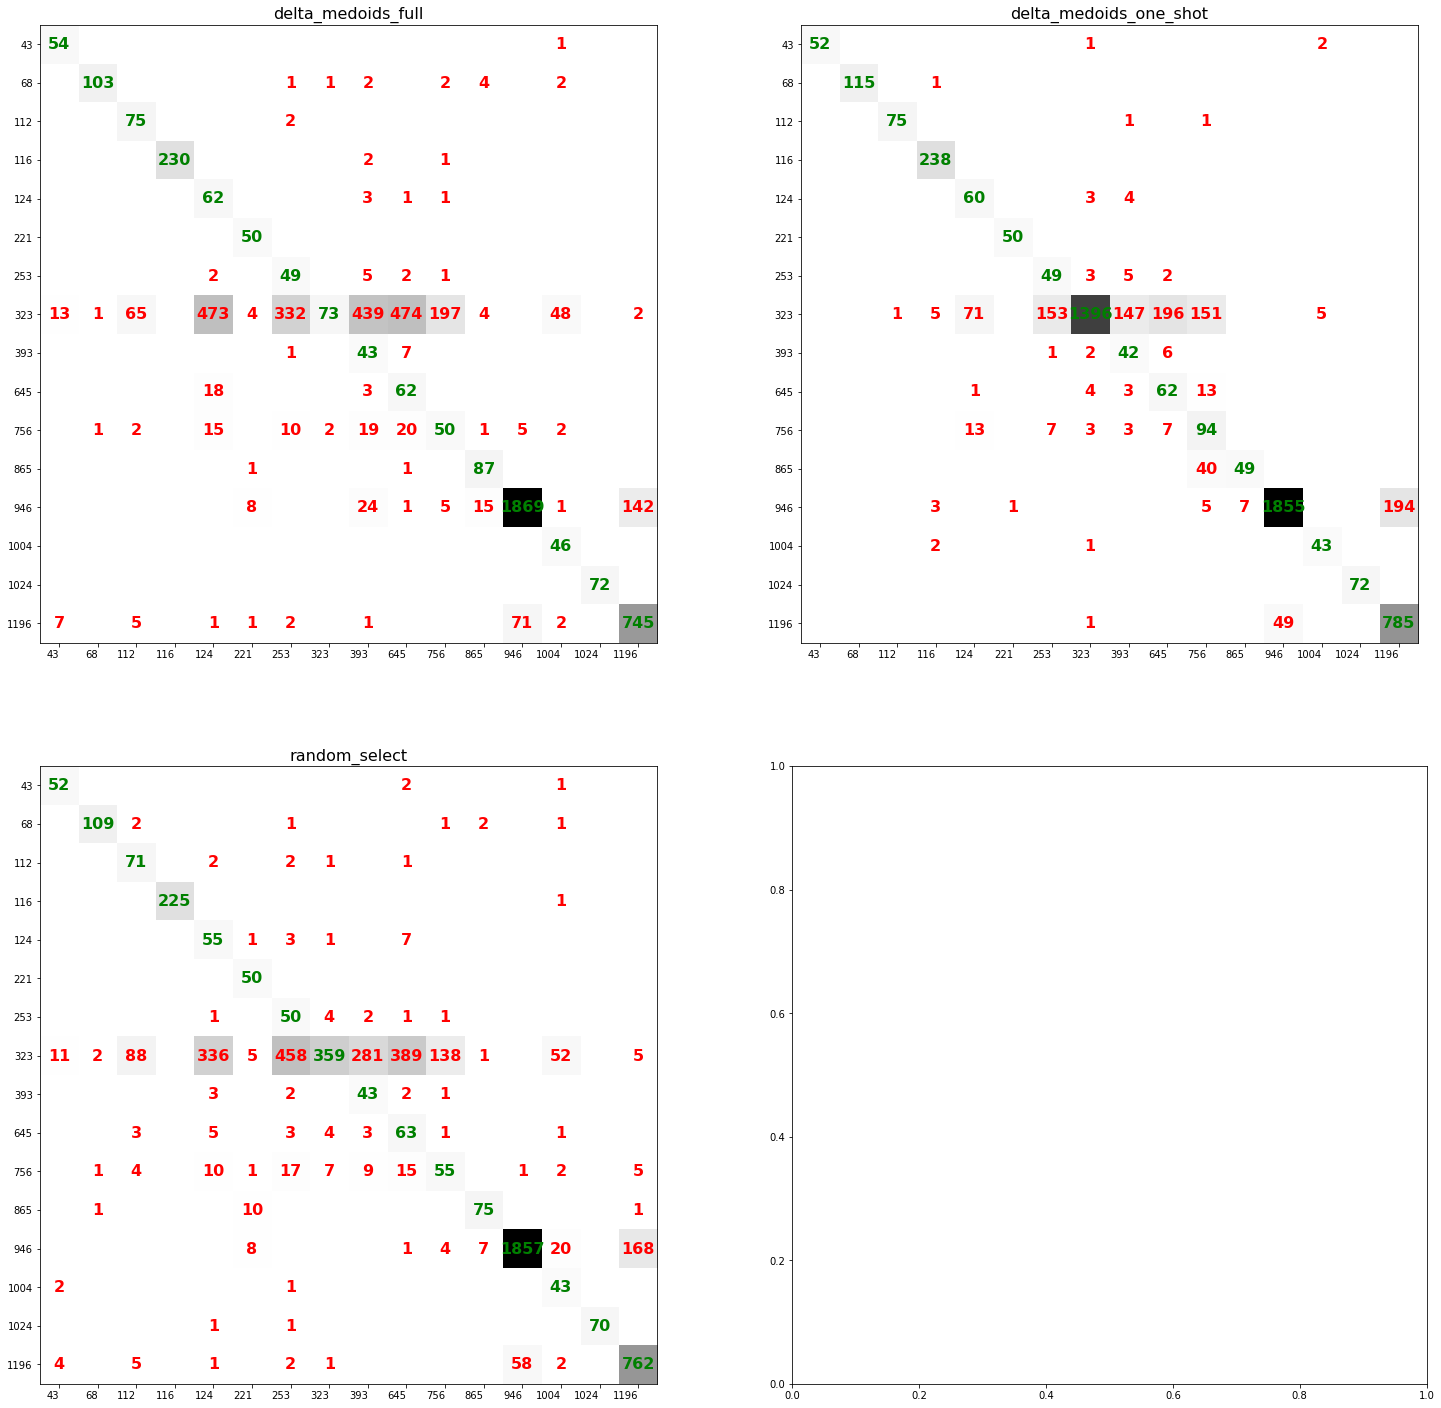
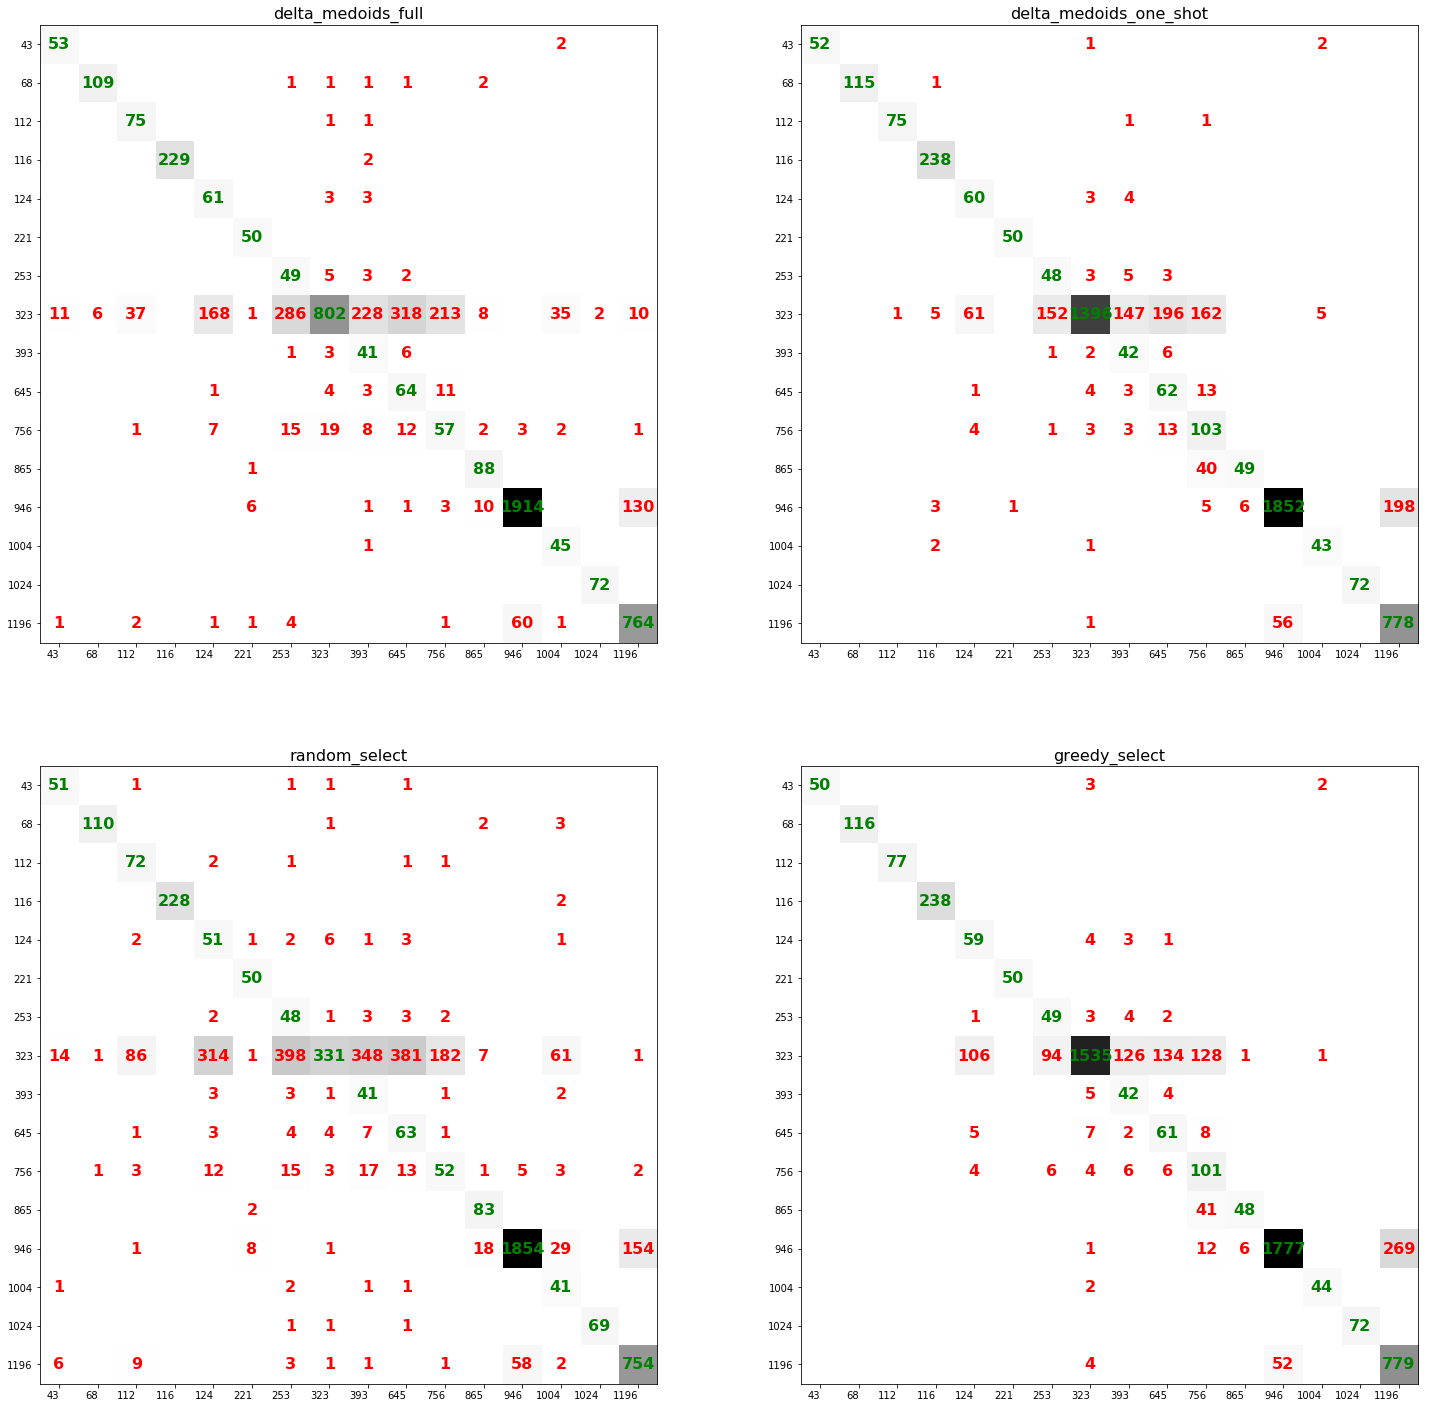
final version w\o abstract, conclusion and time complexity

diff --git a/text/hlavac-thesis.tex b/text/hlavac-thesis.tex
@@ -452,6 +452,7 @@ If the data in the current batch fit into a previously prototyped cluster, they 
 If samples differ more than a predefined threshold, a new cluster prototype is created.
 
 \section{Representative Selection}
+\label{sec:representative_selection}
 
 This section focuses on the idea of finding a representation of clusters.
 Clustering huge datasets can result in big clusters of several tens of thousands of objects in them.
@@ -482,7 +483,7 @@ Two following requirements are imposed on an algorithm for finding a representat
 \end{itemize}
 To compare the quality of different subsets returned by different algorithms, two criteria are measured:
 \begin{itemize}
-    \item \textbf{Criterion 1}: $|Z|$ - seeking the smallest possible subset $Z$ that satisfies Requirement 1:.
+    \item \textbf{Criterion 1}: $|Z|$ - seeking the smallest possible subset $Z$ that satisfies Requirement 1.
     \item \textbf{Criterion 2}: Representative should best fit the data on average. Given representative subsets of equal size, the preference is on the one that minimizes the average distance of samples from their respective representatives.
 \end{itemize}
 Criteria 1 and 2 are applied to a representative set solution.
@@ -587,9 +588,9 @@ By taking this approach, it can in one iteration over data find the representati
 The algorithm is shown in Figure~\ref{alg:delta_medoids_one_shot}, this algorithm is optimized for better memory efficiency as opposed to the version in the cited paper.
 The main ideas remain the same, only keeping track of clusters that the points are assigned to is removed for this one-shot version.
 
-\begin{algorithm}\label{alg:delta_medoids_one_shot}
+\begin{algorithm}
     \caption{$\delta$-Medoids One-shot}
-    \label{delta_medoids_one_shot}
+    \label{alg:delta_medoids_one_shot}
     \begin{algorithmic}[1]
         \INPUT data $x_0$ ... $x_m$, required distance $\delta$
         \STATE Initialize \textit{representatives} = $\emptyset$
@@ -617,17 +618,19 @@ The full version of the algorithm runs a one-shot algorithm multiple times.
 Each time it goes through the dataset it selects a better medoid than before.
 Once two passes through the data do not change any medoid, the algorithm stops.
 This algorithm is shown in Figure~\ref{alg:delta_medoids_full}.
+Original algorithm from \cite{liebman2015representative} lacks the routine \textit{ReduceClusters} on line 24.
+This routine is introduced in this thesis as an improvement of the algorithm because of the algorithm properties found in Section ~\ref{sec:exp1}.
 
 This approach is slower, as the main routine from one shot algorithm has to be run multiple times.
-\todo{Mention convergence of the algorithm.}
+Experimental results of \cite{liebman2015representative} show that the algorithm converges in very few (<10) cycles.
 On the other hand, it is able to select better medoids, thus getting rid of the difficult choice of the first representative to select.
 
-\begin{algorithm}\label{alg:delta_medoids_full}
+\begin{algorithm}
     \caption{$\delta$-Medoids}
-    \label{delta_medoids_full}
+    \label{alg:delta_medoids_full}
     \begin{algorithmic}[1]
         \INPUT data $x_0$ ... $x_m$, required distance $\delta$
-        \STATE t = 0
+        \STATE $t = 0$
         \STATE Initialize $representatives_{t_0} = \emptyset$
         \STATE Initialize \textit{clusters} = $\emptyset$
         \DO
@@ -646,10 +649,11 @@ On the other hand, it is able to select better medoids, thus getting rid of the 
                 \ELSE
                     \STATE \textit{representative = $x_i$}
                     \STATE Initialize $cluster_{representative} = \emptyset$
-                    \STATE ad $x_i$ to $cluster_{representative}$
+                    \STATE add $x_i$ to $cluster_{representative}$
                     \STATE add $cluster_{representative}$ to \textit{clusters}
                 \ENDIF
             \ENDFOR
+            \STATE Call \textbf{\textit{ReduceClusters}}
             \STATE Initialize $representatives_t = \emptyset$
             \FOR{\textit{cluster} in \textit{clusters}}
                 \STATE $representative = \textrm{argmin}_{s \in cluster} (\sum\limits_{x \in cluster}{d(x,s) : d(x,s) \le \delta)}$
@@ -658,7 +662,34 @@ On the other hand, it is able to select better medoids, thus getting rid of the 
         \DOWHILE{$representatives_t = representatives_{t-1}$}
     \end{algorithmic}
 \end{algorithm}
-\todo{add my improvement to the pseudocode - omezeni ze jeden reprezentant musi zabirat minimalne 1 procento vsech bodu, take reprezentantu nesmi byt vice nez 50 nebo vice nez 10 procent celeho clusteru}
+
+The subroutine \textit{ReduceClusters} shown in Figure~\ref{alg:reduce} helps to reduce the number of selected representatives to a number lower than a constant $\kappa$.
+If a representative does not cover at least 1\% of the cluster, the routine tries to add him to the coverage of the representative that is similar to it.
+If no such similar representative exists, it is considered noise and the representative is dropped from the cluster.
+
+
+\begin{algorithm}
+    \caption{ReduceClusters}
+    \label{alg:reduce}
+    \begin{algorithmic}[1]
+        \INPUT $m$ subclusters $X$ = $x_i, ..., x_m$; their representatives $R = r_0, ..., r_m$; whole cluster size$s$
+        \STATE $threshold = 0.01s$
+        \STATE Initiate $i = 0$
+        \IF{$|X| > \kappa$}
+            \WHILE{$i < m$}
+                \IF{$|x_i| \le threshold$}
+                    \STATE $j$ = index the most similar representative from $R$
+                    \IF{no such $j$ exists}
+                        \STATE Drop $x_i$ from $X$
+                    \ELSE
+                        \STATE Merge $x_i$ and $x_j$.
+                    \ENDIF
+                    \STATE Drop $r_i$ from $R$
+                \ENDIF
+            \ENDWHILE
+        \ENDIF
+    \end{algorithmic}
+\end{algorithm}
 
 %========================================CHAPTER==================================
 
@@ -835,7 +866,7 @@ The number of representatives selected did not exceed 30 in any cluster.
 The number of missed classification is low even in overlapping or complex datasets.
 However, when the results were visualized for one cluster, the delta medoids algorithm did not result in expected selection.
 As can be seen on Figure~\ref{img:blobs_border_select}, the algorithm picked the samples on the edge of the dataset that did not cover many points in their neighborhoods.
-\begin{figure}
+\begin{figure}[H]
    \includegraphics[width=\linewidth]{img/delta_medoids_select.png}
   \caption{$\delta$-Medoids choosing the border samples of a cluster}
   \label{img:blobs_border_select}
@@ -942,7 +973,7 @@ B & 600 & 8 & 8 & 8 & 8 \\ \hline
 \subsection{Conclusion}
 
 The results of this experiment empirically supported the expected result of not selecting the border samples from a dataset as can be seen on Figure~\ref{img:blobs_good_select}
-\begin{figure}
+\begin{figure}[H]
   \includegraphics[width=\linewidth]{img/delta_medoids_select_better.png}
   \caption{$\delta$-Medoids choosing only relevant samples of a cluster}
   \label{img:blobs_good_select}
@@ -957,8 +988,8 @@ The motivation for this experiment was to test the algorithm results on well exp
 \subsection{Experimental Setup}
 Datasets used for this experiment were:
 \begin{itemize}
-    \item Pendigit
-    \item
+    \item Pendigits
+    \item MNIST Fashion
 \end{itemize}
 
 All 4 algorithms were run.
@@ -993,6 +1024,14 @@ The results for different methods are listed below.
   \caption{Confusion matrices for Pendigits dataset}
   \label{img:exp3_pendigits}
 \end{figure}
+
+\textbf{MNIST Fashion}
+
+\begin{figure}[H]
+   \includegraphics[width=\linewidth]{img/exp3_mnist_fashion.png}
+  \caption{Confusion matrices for real network data}
+  \label{img:exp4}
+\end{figure} \todo{table with representatives selected}
 
 \subsection{Conclusion}
 Using algorithms on real datasets started to show more significant differences between results in algorithms.
@@ -1045,6 +1084,7 @@ The results for different methods are listed below.
   \caption{Confusion matrices for real network data}
   \label{img:exp4}
 \end{figure}
+
 \todo{here add better cluster names for sure}
 \todo{get precision and recall values per cluster}
 
@@ -1053,6 +1093,30 @@ The results show that the $\delta$-Medoids algorithm is significantly better tha
 Even for clusters with several thousand of samples few samples were selected a while retaining good properties for assigning points to clusters.
 The downside is the speed of the algorithm but this was not a part of this experiment.
 \todo{expand the conclusion}
+
+
+\section{Experiment 5}\label{sec:exp5}
+
+In this experiment the average data fit as defined in Section~\ref{sec:representative_selection} was tested.
+
+\subsection{Experimental Setup}
+In this experiment one cluster was represented by $\delta$-Medoids and Random Selection algorithms.
+The cluster was selected from dataset\todo{dataset, multiple clusters?}.
+After the representatives were selected, the percentage of coverage by each representative was calculated and plotted into graph.
+
+
+\subsection{Results}
+
+\begin{figure}[H]
+   \includegraphics[width=\linewidth]{img/exp5.png}
+  \caption{Average fit of representatives in one cluster}
+  \label{img:exp5}
+\end{figure}
+
+\subsection{Conclusion}
+On average, the $\delta$-Medoids algorithm covers the cluster better with each added representative.
+In the random selection, there is the possibility of selecting either the border cases or two points with overlapping neighborhoods.
+This can occur even more often in data, that do not have standard distribution and can be denser in one part of a cluster than the other.
 
 \setsecnumdepth{part}
 
